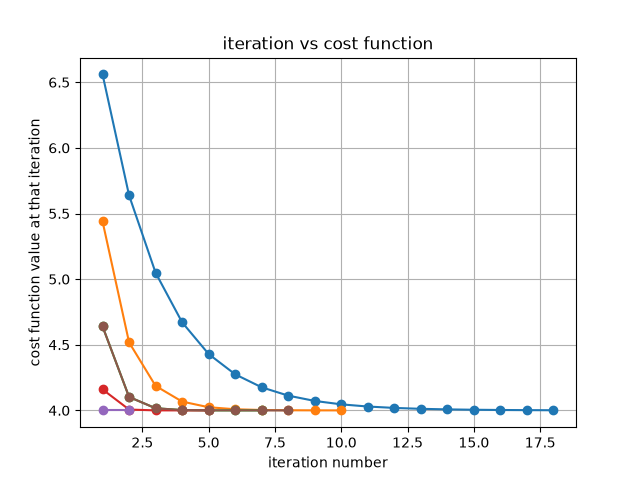
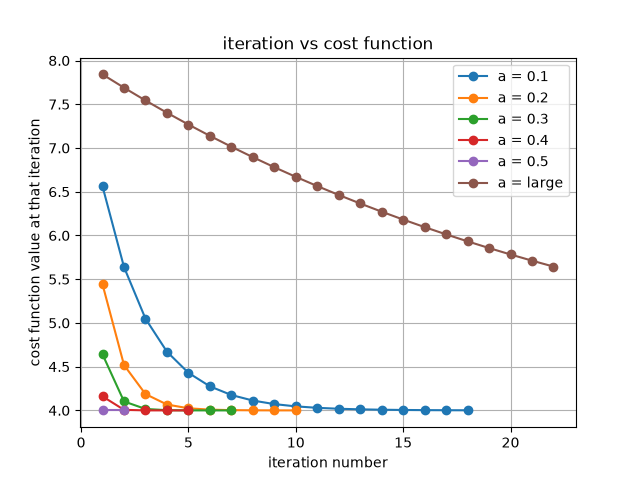
1.py few changes

diff --git a/Gradient_descent/1.py b/Gradient_descent/1.py
@@ -22,7 +22,9 @@ def GD(x,a,e):
     print(f"{'Iter':<6} | {'x':<12} | {'df(x)':<12} | {'a*df(x)':<12} | {'x_new':<12} | {'f(x)':<12} |")
     print("-" * 70)
     
-    while (abs(step_size) >= e):
+    # iter <= 100 for force stop
+    
+    while (abs(step_size) >= e and iter <= 21):
         
         step_size = a*df(x)
         
@@ -46,21 +48,21 @@ x1,y1 = GD(0,0.2,0.01)
 x2,y2 = GD(0,0.3,0.01)
 x3,y3 = GD(0,0.4,0.01)
 x4,y4 = GD(0,0.5,0.01)
-x5,y5 = GD(0,0.7,0.01)
-# x6,y6 = GD(0,0.8,0.01) divergence starts here and infinite iterations 
-# x7,y7 = GD(0,1,0.01)
-# x8,y8 = GD(0,1.5,0.01)
+
+x5,y5 = GD(0,0.99,0.01)
+
+
 
 # plotting
-plt.plot(x,y,marker='o')
-plt.plot(x1,y1,marker='o')
-plt.plot(x2,y2,marker='o')
-plt.plot(x3,y3,marker='o')
-plt.plot(x4,y4,marker='o')
-plt.plot(x5,y5,marker='o')
-# plt.plot(x6,y6,marker='o')
-# plt.plot(x7,y7,marker='o')
+plt.plot(x,y,marker='o',label = "a = 0.1")
+plt.plot(x1,y1,marker='o',label = "a = 0.2")
+plt.plot(x2,y2,marker='o',label = "a = 0.3")
+plt.plot(x3,y3,marker='o',label = "a = 0.4")
+plt.plot(x4,y4,marker='o',label = "a = 0.5")
+plt.plot(x5,y5,marker='o',label = "a = large")
 
+
+plt.legend()
 
 plt.title("iteration vs cost function")
 plt.xlabel("iteration number")

diff --git a/Gradient_descent/tempCodeRunnerFile.py b/Gradient_descent/tempCodeRunnerFile.py
@@ -1,0 +1,1 @@
+,
